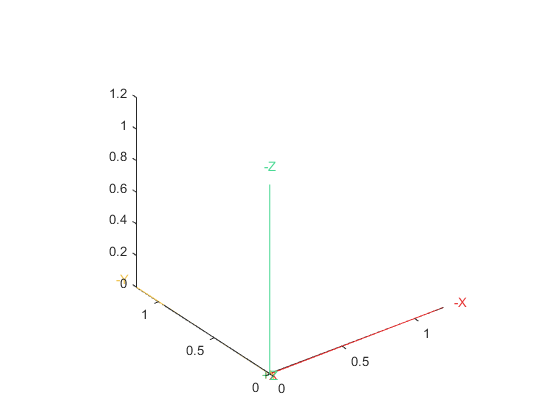
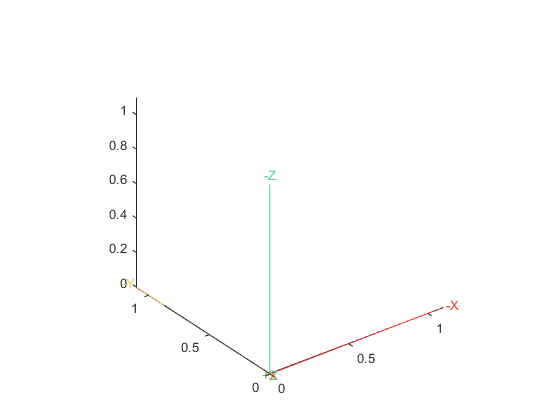
updated pretty axes 3d library

diff --git a/libs/PrettyAxes3DMatlab/PrettyAxes3D.m b/libs/PrettyAxes3DMatlab/PrettyAxes3D.m
@@ -1,4 +1,4 @@
-classdef (Sealed) PrettyAxes3D < handle & matlab.mixin.Copyable
+classdef PrettyAxes3D < handle & matlab.mixin.Copyable
     
     methods ( Access = public )
         
@@ -37,21 +37,16 @@ classdef (Sealed) PrettyAxes3D < handle & matlab.mixin.Copyable
                 axes_handle = gca();
             end
             
-            if ~ishold( axes_handle )
-                hold( axes_handle, 'on' );
-                old_hold_state = 'off';
-            else
-                old_hold_state = 'on';
-            end
+            state_restorer = obj.hold_if_not_held( axes_handle ); %#ok<NASGU>
             
-            [ min_pt, max_pt ] = obj.get_extrema( axes_handle );
-            
+            extrema = obj.get_extrema( axes_handle );
+            [ min_pt, max_pt ] = obj.extend_extrema( extrema, obj.scaling_factor );
             obj.plot_axis_lines( axes_handle, min_pt );
             obj.plot_axis_lines( axes_handle, max_pt );
+            
+            [ min_pt, max_pt ] = obj.extend_extrema( extrema, obj.scaling_factor + obj.LABEL_SCALING_FACTOR_ADDITION );
             obj.plot_text_labels( axes_handle, min_pt, +1 );
             obj.plot_text_labels( axes_handle, max_pt, -1 );
-            
-            hold( axes_handle, old_hold_state );
             
         end
         
@@ -136,8 +131,51 @@ classdef (Sealed) PrettyAxes3D < handle & matlab.mixin.Copyable
     
     properties ( Access = private, Constant )
         
-        DEFAULT_SCALING_FACTOR = 1.2;
-        LABEL_SCALING_FACTOR = 1.1;
+        DEFAULT_SCALING_FACTOR = 1.1;
+        LABEL_SCALING_FACTOR_ADDITION = 0.06;
+        
+    end
+    
+    
+    methods ( Access = protected )
+        
+        function origin = get_origin( obj )
+            
+            origin = obj.origin;
+            
+        end
+        
+        
+        function [ min_pt, max_pt ] = extend_extrema( ...
+                obj, ...
+                extrema, ...
+                scaling_factor ...
+                )
+            
+            extrema = extrema ...
+                + obj.compute_extensions( extrema, scaling_factor );
+            min_pt = extrema( 1, : );
+            max_pt = extrema( 2, : );
+            
+        end
+        
+        
+        function extrema = get_extrema( obj, axes_handle )
+            
+            extrema = [ ...
+                xlim( axes_handle ); ...
+                ylim( axes_handle ); ...
+                zlim( axes_handle ) ...
+                ].';
+            if ~isempty( obj.min_point )
+                extrema( 1, : ) = obj.min_point;
+            end
+            if ~isempty( obj.max_point )
+                extrema( 2, : ) = obj.max_point;
+            end
+            extrema = sort( extrema );
+            
+        end
         
     end
     
@@ -165,7 +203,6 @@ classdef (Sealed) PrettyAxes3D < handle & matlab.mixin.Copyable
         
         function plot_text_labels( obj, axes_handle, extreme, direction )
             
-            extreme = extreme * obj.LABEL_SCALING_FACTOR;
             for i = 1 : 3
                 
                 extents = obj.origin;
@@ -180,37 +217,6 @@ classdef (Sealed) PrettyAxes3D < handle & matlab.mixin.Copyable
                 obj.format_text( handle, obj.get_color( i ) );
                 
             end
-            
-        end
-        
-        
-        function [ min_pt, max_pt ] = get_extrema( obj, axes_handle )
-            
-            extrema = [ ...
-                xlim( axes_handle ); ...
-                ylim( axes_handle ); ...
-                zlim( axes_handle ) ...
-                ].';
-            if ~isempty( obj.min_point )
-                extrema( 1, : ) = obj.min_point;
-            end
-            if ~isempty( obj.max_point )
-                extrema( 2, : ) = obj.max_point;
-            end
-            extrema = sort( extrema ) + obj.get_extensions( extrema );
-            min_pt = extrema( 1, : );
-            max_pt = extrema( 2, : );
-        
-        end
-        
-        
-        function extensions = get_extensions( obj, extrema )
-            
-            base_extension = max( abs( extrema ) ) * ( obj.scaling_factor - 1 );
-            extensions = ...
-                base_extension .* ...
-                sign( extrema ) .* ...
-                ones( size( extrema ) );
             
         end
         
@@ -232,6 +238,34 @@ classdef (Sealed) PrettyAxes3D < handle & matlab.mixin.Copyable
         function color = get_color( obj, axis_index )
             
             color = obj.colors( axis_index, : );
+            
+        end
+        
+    end
+    
+    
+    methods ( Access = protected, Static )
+        
+        function extensions = compute_extensions( extrema, scaling_factor )
+            
+            base_extension = max( abs( extrema( : ) ) ) * ( scaling_factor - 1 );
+            extensions = ...
+                base_extension .* ...
+                sign( extrema ) .* ...
+                ones( size( extrema ) );
+            
+        end
+        
+        
+        function state_restorer = hold_if_not_held( axes_handle )
+            
+            if ~ishold( axes_handle )
+                hold( axes_handle, 'on' );
+                old_state = 'off';
+            else
+                old_state = 'on';
+            end
+            state_restorer = onCleanup( @()hold( axes_handle, old_state ) );
             
         end
         
